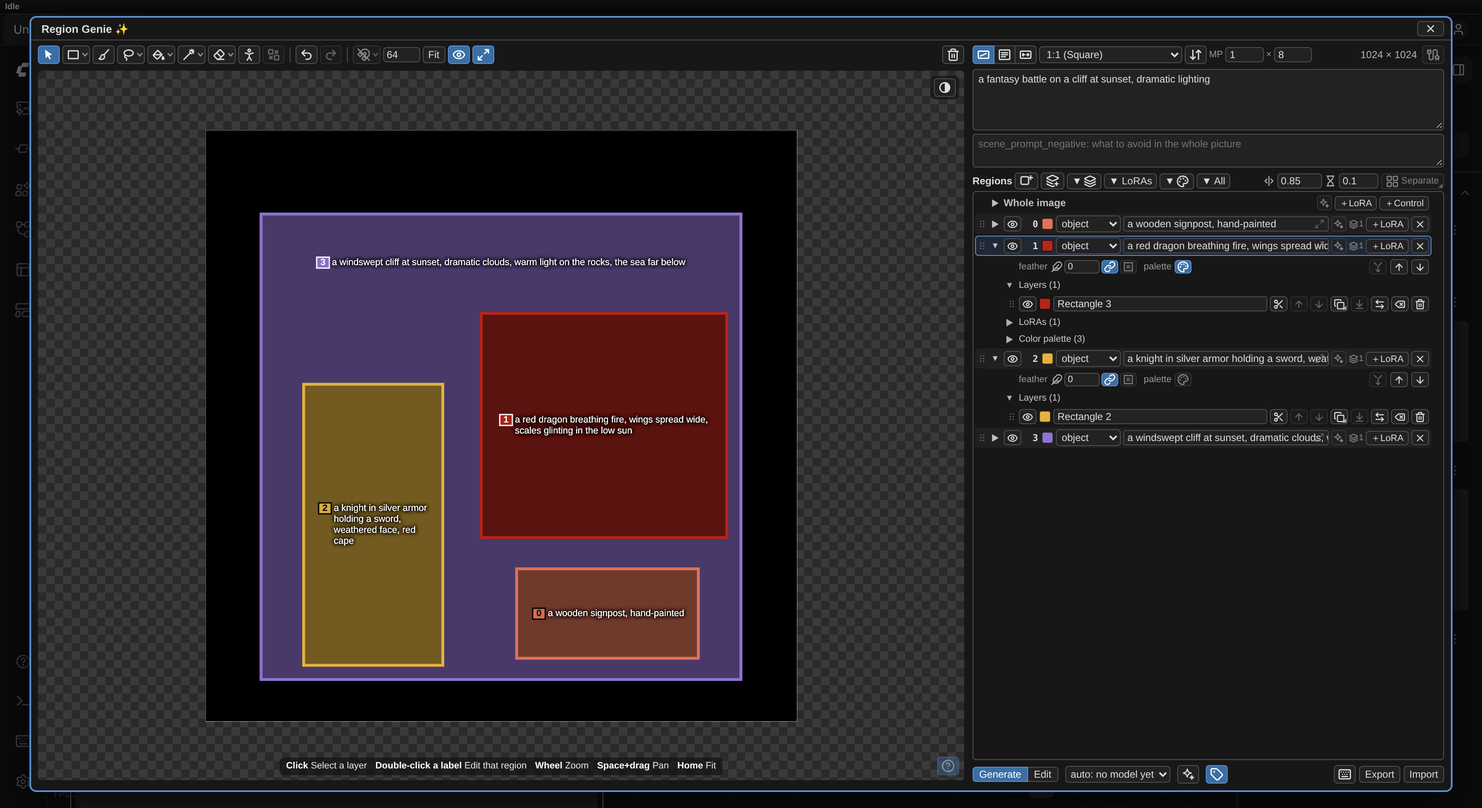
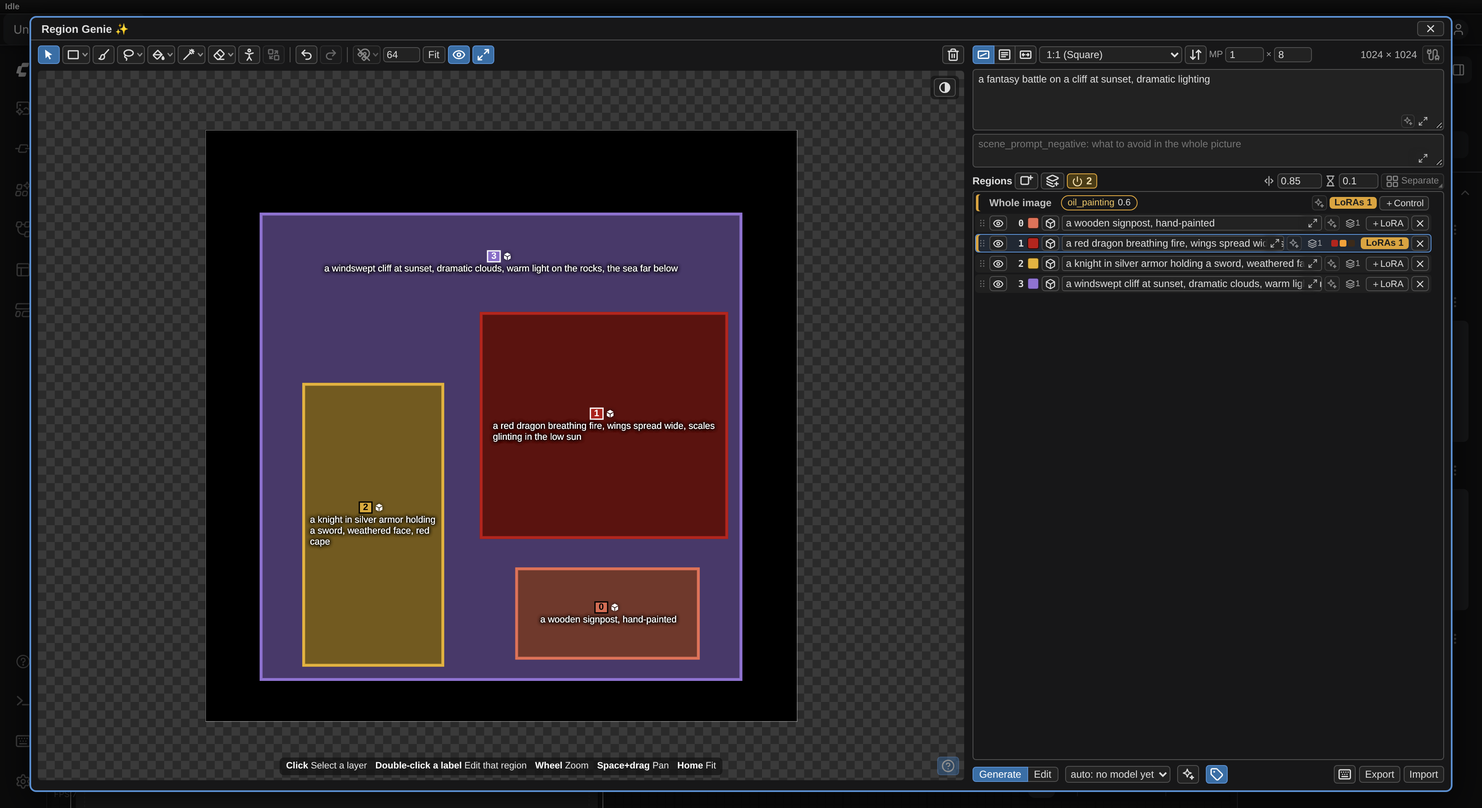
Regions list and region pop-up (rounds 87-88): manual, README, help page, pictures, changelog, handoff, checklist; real-ComfyUI suites updated; version 0.58.0
Claude-Session: https://claude.ai/code/session_01B5U1gpBZHxaHUVoHyaNrX1

diff --git a/js/rg_colorpicker.js b/js/rg_colorpicker.js
@@ -213,7 +213,7 @@ export function openColorPicker(anchor, hex, { onInput, onClose, inline = null }
         fields.textContent = ""; hexIn = null; numIns = [];
         copyBtn.title = `Copy (${{ hex: "#4ecb8d", rgb: "rgb(78, 203, 141)", hsl: "hsl(150, 55%, 55%)" }[displayMode]} format)`;
         if (displayMode === "hex") {
-            hexIn = el("input"); hexIn.type = "text"; hexIn.spellcheck = false; hexIn.setAttribute("aria-label", "Hex");
+            hexIn = el("input"); hexIn.type = "text"; hexIn.spellcheck = false; hexIn.setAttribute("aria-label", "Hex"); hexIn.title = "The color as a hex value";
             fieldEvents(hexIn, () => {
                 const n = normalizeHex(hexIn.value);
                 if (n) { setFromRgb(hexToRgb(n)); update(false); }

diff --git a/docs/region-genie.md b/docs/region-genie.md
@@ -57,18 +57,18 @@ New here? The [quick start](../README.md#-quick-start) in the README gets a firs
 
 - **Without regions** the node is a plain text-to-image prompt node, so the same workflow serves pictures with and without regions.
   - `scene_prompt_positive` and `scene_prompt_negative` are the prompts; `positive`, `negative`, `latent` and `model` go to the sampler as always.
-  - The size row sets the image size, and **＋LoRA** on *Whole image* adds LoRAs for the whole picture.
+  - The size row sets the image size, and the **＋LoRA** button on *Whole image* adds LoRAs for the whole picture.
   - `prompt` is then your scene prompt as plain text (Ideogram 4: its caption JSON with no elements). Hiding every region (the eye buttons) does the same without deleting anything.
 - **An empty canvas** shows two cards. They hide while the pointer is on the canvas.
   - **Start here: with regions** has three steps: pick a shape and drag a box (your first region), type its prompt (in the list, or double-click the middle of the region), connect and run.
-  - **Or without regions** says how to use the node for plain text-to-image: the two scene prompts, and LoRAs under *Whole image*.
+  - **Or without regions** says how to use the node for plain text-to-image: the two scene prompts, and LoRAs on *Whole image*.
 - **The line along the canvas's bottom edge** shows the keys and gestures of the tool in use (for the Rectangle: drag, Shift for equal sides, Alt from the centre).
   - It fades while the pointer is on the canvas (so it never covers what you work on), comes back when the pointer leaves, and shows for a few seconds when you switch tools.
   - The small **?** button in the canvas's lower right corner hides or shows the hints with one click (the same switch as in Settings).
   - **Settings > Region Genie > Canvas tools > Hints on the canvas** turns it and the first steps off.
 - **Tooltips:** point at any button, field or switch for what it does. A shortcut is shown as a key next to the text.
 - **In-app help:** select the node and press **Node Info** in ComfyUI's toolbar (or the Info tab of the side panel) for a short guide with a numbered picture of the node. Every node of the pack has one.
-- **Small buttons are easier to hit:** a click just above, below or beside a small button, a row's ▶ or its grip still counts (the area is at least 24 px tall).
+- **Small buttons are easier to hit:** a click just above, below or beside a small button, a row's grip still counts (the area is at least 24 px tall).
 
 ### Shortcuts
 
@@ -206,14 +206,20 @@ The row at the top of the node sets the size of the picture. Three buttons on th
 - **The region list** (under the canvas) is the output.
   - The number left of each swatch is the region's output index: the `index` to use in Mask Picker or BBoxes to Masks, and its position in every output. Regions without visible pixels show "–" and are left out, so the numbers below them shift.
   - Each region has a color, a type (object, character or text, plus the text to render; that field grows while you edit it too, Shift+Enter for a new line) and a prompt.
+    - The type is the icon before the prompt (a box, a person or a letter T): click it and choose from the three.
+    - A text region's row has a small handle between its prompt and its text to render: drag it to give one of them more room; double-click it for the usual width.
   - The list order is the output order and the stacking order: **drag a region by the grip** (the six dots at the start of its row) to another place in the list.
     - A line shows where it will land, and letting go outside the list changes nothing.
     - A click on the grip without dragging makes the region active, like a click in its prompt.
-    - ↑ ↓ on the region's options line (see *Opening a region*) move the region one step at a time.
+    - ↑ ↓ on the Options tab of the region's pop-up (see *A region's pop-up*) move the region one step at a time.
   - Its layers move with it (the top region is in front; holes keep their place). Click a region's swatch to change its color (display only). The prompt field expands while you edit it; Enter finishes.
   - The small **⤢** button in a prompt's (or text's) bottom-right corner opens the region's pop-up editor next to its row; double-click selects a word, as in any text field. Click a region to make it active: new shapes, paint and fills use it.
   - A layer turned into a hole (✂ on its row) cuts a black hole through the layers below it.
-- **A region's row** holds what is used all the time: show / hide, its number, color, type, the prompt (which gets most of the row), the LLM button, the layer count and ＋LoRA.
+- **A region's row** is one line and holds what is used all the time: show / hide, its number, color, type, the prompt (which gets most of the row), the LLM button, and three small buttons for what the region holds.
+  - **The layer count** (the layers icon and a number).
+  - **The palette's colors** as dots, while the palette is on.
+  - **The LoRAs button:** grey *＋LoRA* with no LoRAs, amber *LoRAs 3* with LoRAs on (*2/3* when some are off), an amber outline *LoRAs 0/2* when all are off. A row with a LoRA on has an amber edge.
+  - Each of the three opens the region's pop-up on that tab. Nothing opens under a row.
   - In Edit Mode also keep / change, and with a Control row its Control switch.
 - **Show / hide a region:** the eye button (open: shown, closed: hidden) before a region's number.
   - A hidden region isn't drawn and is left out of every output (masks, prompt, LoRAs, the color map, Edit Mode's mask), as if it had no pixels.
@@ -221,23 +227,45 @@ The row at the top of the node sets the size of the picture. Three buttons on th
   - Its layers keep their own show / hide settings, so showing it again brings it back exactly as it was.
   - Drawing into a hidden region (or adding a selection to it) shows it again.
 - **Delete a region:** the ✕ at the end of its row deletes it with its layers (Ctrl+Z brings it back).
-- **Right-click a region's row** (not in a text field): Edit prompt, Hide region, Move up / down, Delete region.
+- **Right-click a region's row** (not in a text field): Edit prompt, LoRAs, Layers, Color palette and Options (each opens the pop-up on that tab), Hide region, Move up / down, Delete region.
 
-### Opening a region
+### A region's pop-up
 
-- **Opening a region:** each region's ▶ chevron opens it.
-  - First comes its **options line**:
-    - **feather** (the value, the chain that links it and the dashed square for edges on the image border).
-    - **palette** (on / off).
-    - Then on the right: merge its layers (two lines joining into one) and ↑ ↓ move the region.
-  - Under it are its subsections: **Layers**, **LoRAs** and **Color palette** (only the ones it has). Each subsection has its own ▶ and starts closed; closing the region hides all of them.
-  - The *Whole image* row opens with a click anywhere on it (except its sparkle and ＋LoRA buttons) and shows its LoRAs, or a hint when it has none.
-  - The ▼ buttons above the list (▼ + layers icon, ▼ LoRAs, ▼ + palette icon) open or close that subsection in every region at once (LoRAs includes *Whole image*), and "▼ All" opens or closes everything.
-  - Adding a LoRA or turning a palette on opens its subsection; selecting a layer on the canvas opens its region's layers.
+Everything a region holds is in its pop-up, on five tabs. Open it with the **⤢** button of its prompt, one of the row's small buttons, the row's right-click menu, or a double-click on its label on the canvas.
+
+| Tab | What is on it |
+|---|---|
+| **Prompt** | The type, the prompt, the text to render, and the tag list, wildcard list and LLM button |
+| **LoRAs** | The region's LoRAs: on / off, file, strength, remove, trigger words; ＋LoRA under them |
+| **Layers** | The region's layers and pose figures, a new layer, merge all |
+| **Palette** | The color palette: on / off, its colors, and the color picker |
+| **Options** | Feather, the region's place in the order, show / hide, delete (in Edit Mode also keep / change; with a Control row its Control switch) |
+
+<img src="images/lora.png" alt="The LoRAs tab of a region's pop-up" width="500">
+
+*The LoRAs tab.*
+
+<img src="images/popup-layers.png" alt="The Layers tab of a region's pop-up" width="500">
+
+*The Layers tab.*
+
+<img src="images/popup-palette.png" alt="The Palette tab of a region's pop-up, with the color picker" width="500">
+
+*The Palette tab.*
+
+<img src="images/popup-options.png" alt="The Options tab of a region's pop-up" width="500">
+
+*The Options tab.*
+
+- The pop-up keeps its size and its place when you switch tabs. It grows when what it holds needs more room, so it never has a scroll bar. Drag its corner to make it wider or narrower.
+- A number on a tab says how much is there (*LoRAs 2/3*: two of three are on); amber means something there is switched on.
+- **Lists are reordered by their grips:** drag a LoRA or a layer by the six dots at the start of its row.
+- *Whole image* has no layers or palette: its LoRAs are on a **LoRAs** tab in the pop-up of `scene_prompt_positive`. Its row shows the LoRAs that are on as chips (name and strength; a long name is cut short, a *+2* chip stands for those that don't fit), and the same LoRAs button as a region's row.
+- **All LoRAs off:** the amber button with a power icon in the list's header shows how many LoRAs are on in the node. A click switches every one off; the next click switches the same ones back on.
 
 ### Feather
 
-- **Feather** (on the region's options line: open the region with ▶): softens the region's mask edges by that many pixels, in `masks` and for its LoRAs, like Mask Picker's feather (default 0).
+- **Feather** (on the Options tab of the region's pop-up): softens the region's mask edges by that many pixels, in `masks` and for its LoRAs, like Mask Picker's feather (default 0).
   - The chain button links the value: all linked regions share one value; unlink a region to give it its own. The dashed-square button is that region's `feather_canvas_edges`: off (default) keeps edges on the image border solid, on fades them too.
   - Connect `model` (and `clip`) and use the `model` output for the sampler: see [LoRAs per region](regional-loras.md).
 
@@ -245,11 +273,13 @@ The row at the top of the node sets the size of the picture. Three buttons on th
 
 - **Colors** are picked with a built-in color picker like the one in Create Bounding Boxes (saturation/brightness square, hue bar, Hex / RGB / HSL fields); it works the same in legacy nodes and Nodes 2.0.
   - Changes show live; click outside, press Esc or Enter to close it. A whole pick is one undo step.
+  - On the Palette tab of a region's pop-up the picker is a part of the tab, under the colors: click a color, then change it there.
   - The copy button copies the color in the chosen format (`#4ecb8d`, `rgb(78, 203, 141)` or `hsl(150, 55%, 55%)`).
   - The paste button (or Ctrl+V while the picker has focus) reads a color in any of those formats, CSS color names, or three plain numbers.
   - If the browser blocks reading the clipboard, the picker asks you to press Ctrl+V instead.
-- **Color palette** (the palette icon on the region's options line; off by default): turns on a row of up to 5 colors under the region, like MOSS-Image's `palette` and Ideogram's `color_palette`.
-  - "+" adds a white swatch in its place ("+" moves right, or hides at 5 colors) and opens the color picker on it; closing the picker without changing it keeps the white swatch. Click a color to change it, right-click to remove it.
+- **Color palette** (the Palette tab of the region's pop-up; off by default): up to 5 colors for the region, like MOSS-Image's `palette` and Ideogram's `color_palette`.
+  - The switch at the top turns it on or off, and the word next to it says which it is (*On* in amber, or *Off*).
+  - "+" adds a white color and selects it. Click a color to select it and change it in the picker below; the bin at the right end of the row removes the selected one, and so does a right-click on a color.
   - The region is then shown in its **first palette color** everywhere: on the canvas, in the list and in `color_map`.
   - When that color is the same as (or very close to) black or another region's color, it is lightened or darkened a little so every region stays distinguishable.
   - The palette goes into `elements` (`color_palette`), `bboxes` (`palette`), the MOSS JSON `prompt` (`palette`, exactly as MOSS-Image Layout Prompt writes it) and the Ideogram JSON `prompt`, and Import reads it back.
@@ -257,18 +287,18 @@ The row at the top of the node sets the size of the picture. Three buttons on th
 
 ### LoRAs
 
-- **LoRAs** (MOSS-Image, Krea 2, Ideogram 4, Flux, Anima, SDXL / SD1.5): "＋LoRA" on a region adds a LoRA that acts only inside that region; "＋LoRA" on *Whole image* adds one for the whole picture.
+- **LoRAs** (MOSS-Image, Krea 2, Ideogram 4, Flux, Anima, SDXL / SD1.5): the LoRAs button of a region's row opens the LoRAs tab of its pop-up, where ＋LoRA adds a LoRA that acts only inside that region; the one on *Whole image* adds LoRAs for the whole picture.
   - A whole-image LoRA is merged into the model exactly like a Load LoRA (model only) node placed before the `model` input, so it costs no time while sampling and works with any model.
-  - Each LoRA row has on/off, the LoRA (ComfyUI's list menu, so Easy-Use / rgthree folder nesting works), strength and ✕.
+  - Each LoRA row has a grip (drag to reorder), on / off, the LoRA (ComfyUI's list menu, so Easy-Use / rgthree folder nesting works), strength and ✕.
   - Its **trigger words** are shown as chips. Click a chip to add it to the region's prompt (whole-image LoRAs: to `scene_prompt_positive`).
   - The words are read from the files model managers save next to the LoRA (`.cm-info.json` "TrainedWords", `.civitai.info`, LoRA Manager `.metadata.json`, A1111 `.json`, or the file's own metadata). The chip's tooltip names the file.
   - A ✓ chip is already in the prompt.
 
 ## Layers
 
-- **Layers** are the things you draw.
+- **Layers** are the things you draw. A region's layers are on the **Layers** tab of its pop-up (the layer count on its row opens it).
   - Each layer row has:
-    - The **grip**: a click selects the layer. Drag it above or below another layer, also another region's, or onto a region's row to put it on top of that region's layers.
+    - The **grip**: a click selects the layer. Drag it above or below another layer of the region, or onto another region's row in the list (where the pop-up doesn't cover it) to put it on top of that region's layers.
     - The eye (show / hide).
     - **✂ hole**. On: the layer cuts its area out of every layer below it, so no region is there; black in `color_map`.
       - It stays listed under its region, with a striped swatch, and is drawn striped on the canvas.
@@ -280,10 +310,10 @@ The row at the top of the node sets the size of the picture. Three buttons on th
     - Move to another region (two arrows, left and right).
     - Erase its contents (a backspace key).
     - Delete (a bin).
-  - The merge button on a region's options line merges all of its visible layers.
+  - Under the rows: a new empty layer, and merge all of the region's visible layers.
   - **Ctrl+C / Ctrl+X / Ctrl+V** copy, cut and paste the selected layer (click the canvas first so it has the keyboard): a pasted layer lands on top of the active region's layers, in the same place (with no active region, back in its own region).
   - It also pastes into another Region Genie node. With no layer selected, Ctrl+C / Ctrl+V do ComfyUI's usual node copy and paste.
-  - Selecting a layer on the canvas opens its region.
+  - Selecting a layer on the canvas marks its row on the Layers tab, when that pop-up is open.
   - Only visible pixels inside the image reach `masks`, `bboxes` and `color_map`.
 
 ## Tools
@@ -443,9 +473,10 @@ The tools are the icons in the bar above the canvas. Point at one for its name a
   - The mouse wheel zooms, middle-drag or Space+drag pans, Fit (Home) resets the view, and Alt+wheel or `[` `]` changes brush size.
   - This is the same in Nodes 2.0: the wheel zooms the canvas, not the graph, while the pointer is over it.
 - **Labels** (the eye button, on by default): each region's output index and prompt are written **inside the region**, as much of the prompt as fits.
-  - A small filled **person** before the prompt marks a *character* region, and in Edit Mode a filled **lock** marks a region kept as it is; both are in the text's own color.
+  - The region's number and a mark for its type (a person, a box or a letter T) are on a line of their own above the prompt, centred over it; in Edit Mode a **lock** before the mark is a region kept as it is. A region too low for that line has them before the text.
   - In Edit Mode the label of a kept region lies on a dark plate (the region is only an outline over the picture it keeps, so the text would otherwise sit on the picture itself).
   - The text goes into the largest upright rectangle that lies inside the part of the region you can see (so it never runs over a neighbour or a region drawn on top), with a margin, centred; zooming in gives it more room.
+    - The margin is a setting (*room between a label and its region's edge*, 3% of the region's shorter side at first), and so is how the lines are lined up (*label text*: left-aligned at first, or centered).
   - It is white with a dark shadow, or black with a white glow where the region is light enough at its present opacity. There is no box behind it.
   - Its size is a setting (Settings > Region Genie > Text, *On the canvas: region labels*, 11 px at first): its size with the whole image in view.
     - Zooming in enlarges it with the image, up to *region labels, largest when zoomed in* (16 px at first; a value under the text size counts as the text size). Zooming out never makes it smaller.
@@ -455,7 +486,7 @@ The tools are the icons in the bar above the canvas. Point at one for its name a
   - Double-click the text to open the **region editor**, all live:
     - Object / Character / Text buttons (the current type is highlighted).
     - A multi-line Prompt, and a multi-line Text for text regions.
-    - The region's feather, palette and LoRAs (with trigger-word chips).
+    - The region's LoRAs, layers, palette and options on their own tabs (see *A region's pop-up*).
   - Enter or a click outside closes it, Shift+Enter adds a line, Esc closes it and undoes the text you were editing. Each change is one undo step.
 
 ## Working from an image
@@ -498,13 +529,11 @@ Every text field of the node opens in a **pop-up editor**: a large text box that
 | | The bar itself | Drag to move the pop-up; double-click to put it back next to its field |
 | Region only | The color square | The region's color |
 | | Object / Character / Text | The region's type (Text adds a box for the text to render) |
-| | Color palette (left of the bottom row) | On / off, the colors, **+** |
-| | Feather | The value, the chain that links it to other regions, and edges on the image border |
-| | Kept / changed | Edit Mode only |
+| | Tabs | Prompt, LoRAs, Layers, Palette, Options (see *A region's pop-up*) |
 | Bottom row | Tag autocomplete | On / off |
 | | Wildcards | The wildcard list (ComfyUI Impact Pack) |
 | | LLM Prompt Enhancer | On / off for this field (not on `scene_prompt_negative`) |
-| | ＋LoRA | A LoRA for this region; for the whole image on `scene_prompt_positive`. Each LoRA row: on / off, file, strength, remove, trigger-word chips |
+| LoRAs tab | ＋LoRA | A LoRA for this region; for the whole image on `scene_prompt_positive`. Each LoRA row: grip, on / off, file, strength, remove, trigger-word chips |
 | Corner | ◢ grip | Drag to resize; double-click for the default size |
 
 The details:
@@ -528,13 +557,11 @@ The details:
   - They act on the text box you're typing in, one step per word or per pause in typing, and a text set by something else (the LLM, a wildcard, a LoRA's trigger words, "use the filled text") is a step too.
   - The steps of each field are kept while the workflow is open: close the pop-up, open it again later, and Undo still goes back, all the way to the text the field had when you first opened it.
   - Outside a pop-up, the same keys undo the editor's last step as before (a whole prompt edit is one step there).
-- **The bottom row of a pop-up.**
-  - In a region's pop-up, the color palette is on the left: its on / off button, the colors and **+**.
-  - Everything else is on the right of the same row: kept / changed (Edit Mode), feather, the tag autocomplete switch, the wildcard list (when ComfyUI Impact Pack is installed), the LLM Prompt Enhancer button and ＋LoRA.
-  - The scene prompts' pop-ups have the same right-hand group (the LLM button and ＋LoRA on `scene_prompt_positive` only).
+- **The bottom row of the Prompt tab:** the tag autocomplete switch, the wildcard list (when ComfyUI Impact Pack is installed) and the LLM Prompt Enhancer button (not on `scene_prompt_negative`).
+- **Undo and Redo on the other tabs:** while no text has the cursor, the Undo / Redo keys take back the editor's last step (a LoRA moved, a layer deleted).
 - **Esc closes what is on top first:** with a list or menu open over a pop-up, Esc closes that; the next Esc closes the pop-up.
 - **The pop-up button of a text box (⤢)** sits in the box's bottom-right corner, left of the scroll bar when the box has one, and in the middle of a region's one-line prompt box.
-  - Text stops before it, so nothing you type is hidden under the button or the scroll bar.
+  - It is a solid tile in the box's own color, so no text shows under it, and it turns blue under the pointer.
 - **`scene_prompt_positive` shows its LLM Prompt Enhancer:** the sparkles button is also in the box's corner, left of ⤢.
   - It is dimmed when off, lit when on. A click switches it, exactly like the button in the *Whole image* row.
   - The box has a blue outline while the enhancer is on.

diff --git a/docs/HANDOFF.md b/docs/HANDOFF.md
@@ -214,12 +214,43 @@ The owner asked for a UI / UX review (new users, regular users, look and feel) a
 
 ### Region rows (round 34, UX batch 2)
 
+**Replaced in rounds 87-88 (see the next section): the options line and the subsections under a row are gone.** What follows is the history.
+
 The owner chose layout B from three mock-ups (a ⋯ menu; inside the opened region; a second line on the active region), with ✕ only among the moved controls. The owner first asked how a region becomes active, then chose B over C, so nothing in the row depends on which region is active.
 
 - A region's row (`renderRegions`, js/editor/llm.js): ▶, show / hide, number, color, type, prompt (and text), LLM, keep (Edit Mode), Control switch (with a Control row), layer count, ＋LoRA. The prompt went from 182 to about 400 px at the default node width.
 - The **options line** (`.rg-row.opts`) is the first thing in an opened region: the words "feather" and "palette" with `featherBox(r)` and `paletteToggle(r)`, then ⇊ merge, ↑ ↓ move, ✕ delete on the right. Every region can be opened now (`chevron(r.id, true, …)`), also one without layers, and "▼ All" opens every region (`kindTargets("all")` adds each region's row).
 - Nothing about the data changed, and the pop-up region editor still has feather, palette and LoRAs.
 - `tests/ui_region_rows.cjs` checks the row, the line and that its controls work. The stub node's image is 256 px wide: test coordinates must stay inside it.
+
+### The Regions list without sub-rows; a region's pop-up with tabs (rounds 87-88)
+
+**What the owner wanted.** LoRAs that are on must be impossible to miss, the whole image's above all. Then, more generally: nothing opening under a row; pop-ups that match the pack's other ones. Every step was shown as mock-ups drawn onto the real node first; the owner's choices are in `docs/CHANGELOG.md`.
+
+**The rows (`llm.js` `renderRegions`, `list.js`).**
+- A region row is one line: grip, eye, number, swatch, type icon (`.rg-tybtn`, `openMenu` with the three types), prompt (and for a text region `.rg-tsplit` + the text field), LLM, keep / control toggles when they apply, `button.rg-cnt` (layers and pose figures), `button.rg-paldots` (the palette's colors while it is on), the LoRAs button, delete.
+- `loraButton(list, what, open)`: classes `none` / `some` / `alloff`; text "＋LoRA", "LoRAs 3", "LoRAs 2/3", "LoRAs 0/2". `loraChips` (Whole image): chips of the LoRAs that are on, `fit()` hides from the end and shows "+N" (a ResizeObserver keeps it right); a chip's name is cut at 130 px. `ownLoras` leaves out the Edit and Control LoRAs (they have their own rows). Rows with a LoRA on have the class `has-lora` (the amber edge).
+- `E.loraAllBtn` in the header (`canvasUi.js`): `toggleAllLoras` switches all off and marks them `wasOn`; with none on it switches the `wasOn` ones back. `wasOn` is saved in the node's state (Python ignores it); toggling a LoRA by hand clears it on that LoRA.
+- Gone: the ▶ chevrons on rows, the options line, `subHeader` bodies in the list, the Whole image row's click-to-open, the ▼ buttons (`updateExpandButtons` hides them all). `E.expanded` / `E.subOpen` / `E.openSub` still exist and do nothing visible; `subHeader`, `toggleKind`, `chevron` and `paletteRow` are unused now and can be removed in a cleanup.
+- The text field's width of a text region: `node.properties.rg_text_w[region id]` (px), set by `.rg-tsplit`; not part of Undo.
+
+**The pop-up (`popups.js`).**
+- `popTabs(defs, first, onSwitch)`: a tab bar and panes in one grid cell (`.rg-pop-pane.off` is `visibility:hidden`), so the pop-up is as tall as its tallest pane and keeps its size and place on a switch. `popFit(box)` grows the pop-up when its content is taller (never a scroll bar). `POP_MIN_W` (region 430 px).
+- Region pop-up (`editPrompt(rid, rect, focus, at, tab)`): prompt | loras | layers | palette | options. Scene pop-up (`editScene(which, at, tab)`): prompt | loras for `positive`, one pane for the others. `ed.tabs.cur` is passed on when stepping with ◀ / ▶.
+- LoRAs tab: `loraRows(list, { pop: true })` adds `loraGrip` (drag to reorder inside `.rg-pop-lorarows`) and makes the on / off box a switch (`input.rg-switch`).
+- Layers tab: `E.layerRows(rid)` as the list had them, inside `.rg-pop-layers`; `grip("layer")` works on that container, and still drops onto a region's row of the list where the pop-up doesn't cover it. `markLayerRows` marks the rows in the pop-up.
+- Palette tab: `paletteTab(box, r, st)` in `list.js`; `st` (`ed.pal`) keeps the selected color, the inline picker and an undo snapshot between refreshes, so a redraw doesn't end a drag. A change is committed as one undo step half a second after the color rests (`st.flush`, also when the pop-up closes). `openColorPicker(null, hex, { inline: host })` builds the picker into the tab (no window, no outside-click close; `set(hex)`).
+- Options tab: `optLine(label, ...controls)`; feather, Edit Mode's keep, the Control switch, order, show / hide, delete.
+- `popUndoKeys`: Undo / Redo of the editor while no text field has the cursor (a pop-up used to swallow them).
+- Test hooks: `node.__rgEditTab(rid, tab)`, `node.__rgCloseEditor()`.
+
+**The canvas labels (`render.js` `drawLabels`).** Inside a region the number badge and the marks are a line above the text, centered (`it.top = { headW, headH }`); a region too low for that keeps them before the text. Marks: `LABEL_MARKS.person` / `object` / `text` (and `lock` in Edit Mode). Settings: `cmLabelPad` (3%), `cmLabelAlign` (left / center).
+
+**Other.** `.rg-expand` is a solid tile in the field's color (a one-line field's text runs to the field's edge: it can't be stopped earlier, so the tile covers it). The large editor's scene boxes are wrapped in `.rg-big-fld` and get `addExpandButton(..., [], 14)` (14 px for the browser's resize grip) and the LLM corner button; `editScene` places its pop-up left of the big scene box.
+
+**Tested (round 88's finishing).** `run_py.sh`, `run_ui.sh`; on real ComfyUI in both node modes: `real_smoke` (its node count was still 6: it is 8 since the tiled nodes), `real_layering` (new lines for the tabs, the inline picker and the type menu; the legacy run takes about ten minutes), `real_text_boxes` four ways, `real_sockets`, `real_number_wheel` (a pop-up's number field steps with the wheel over its pop-up), `real_attention`, `real_fields_popups`, `real_llm_settings`, `real_pose_input`, `real_run_wildcards`, `real_tooltips`, `real_i18n`; and `real_mode_switch`, `real_settings`, `real_tiled_upscale`, `real_save_image`, `make_examples.cjs check`. Pictures retaken with `shot_readme.cjs` (new: `popup-layers.png`, `popup-palette.png`, `popup-options.png`; `lora.png` is now the LoRAs tab).
+
+**Not done / ideas.** Whole image has no Options tab; its Control and Edit rows are still rows of the list. The type menu shows a tick, not the type's icon. A layer selected on the canvas no longer shows itself anywhere unless that region's Layers tab is open (offered: open it, or a mark on the row's layer count).
 
 ### Canvas labels, region colors, drag to reorder, theme (round 35, UX batch 3)
 

diff --git a/docs/HARDWARE-CHECKLIST.md b/docs/HARDWARE-CHECKLIST.md
@@ -141,7 +141,7 @@ Check once in legacy mode and once in Nodes 2.0.
 
 ## 12. Region rows (round 34)
 
-- On the 4K display, both node modes: a region's prompt gets most of its row; ▶ opens the region to its options line (feather, palette, merge, move, delete) above its layers; feather and the palette set there act on the run as before.
+- On the 4K display, both node modes (round 88): a region's prompt gets most of its row; the type icon, the layer count, the palette dots and the LoRAs button are readable and easy to hit; each opens the region's pop-up on its tab, and the pop-up keeps its size and place over all five tabs
 
 ## 13. Labels, colors, dragging (round 35)
 
@@ -177,7 +177,7 @@ Check once in legacy mode and once in Nodes 2.0.
 
 ## 17. Click areas, your own shortcuts (round 39)
 
-- **Click areas, on the 4K display, both node modes:** click a row's small buttons (eye, ↑ ↓, ✕, the ▶ and the grip) slightly off: just above or below still counts; a click between two buttons goes to the nearer one, never to both. A tool button's small arrow still opens its list.
+- **Click areas, on the 4K display, both node modes:** click a row's small buttons (eye, the type icon, ✕ and the grip) slightly off: just above or below still counts; a click between two buttons goes to the nearer one, never to both. A tool button's small arrow still opens its list.
 - **Changing a key on a real keyboard:** press ? over a node, click a key, press a new one: a letter, a function key, a combination with Ctrl / Alt / Shift, and (on macOS) one with ⌘. The new key works on the canvas at once and the old one doesn't; the tooltip and the hint line show it. Try a key ComfyUI itself uses (R, Ctrl+S): it acts in the editor only while the pointer is over the node.
 - A non-US keyboard layout: the keys with symbols ([ ] ?) can be reached, or can be given keys that can.
 - **Settings > Region Genie > Shortcuts > Edit…:** the list opens over the Settings dialog, takes a new key there, and closing it leaves the dialog open. After reloading ComfyUI the keys are still yours.
@@ -296,4 +296,16 @@ Nothing here has run on a real model yet.
 - [ ] ControlNet with SDXL in a tiled run; the warning for a transformer model's ControlNet
 - [ ] The "More settings" line on the 4K display, both node modes, and in Firefox: folds and shows the six settings, the node's height follows, "N changed" is readable
 - [ ] Regions in a tiled upscale (round 76's step 2): regional LoRAs stay in their regions in the upscale; at denoise 0.4+ tiles don't draw other regions' prompts; Anima, SDXL, Flux, Krea 2
+
+## Regions list without sub-rows; a region's pop-up with tabs (rounds 87-88)
+
+- [ ] A real run after "all LoRAs off" in the header: no LoRA is applied; the next click brings the same ones back and the run uses them
+- [ ] The LoRAs tab with a real LoRA folder: the file list opens above the pop-up with its folders; trigger-word chips show and add their word
+- [ ] A long LoRA list on *Whole image*: the chips are cut to what fits and "+N" counts the rest, at your usual node width
+- [ ] The Palette tab: the picker in the tab follows the pointer smoothly; one drag is one Undo step
+- [ ] Dragging a layer from the Layers tab onto another region's row in the list
+- [ ] The handle between a text region's prompt and its text to render, in both node modes
+- [ ] Canvas labels: the number and the type's mark above the prompt read well at 11 px on the 4K display; the box and the T are clear
+- [ ] The large editor: the scene boxes' pop-up buttons sit left of the browser's resize grip and both can be used
+- [ ] Firefox: the switch (a styled checkbox), the tabs, and dragging rows by their grips
 

diff --git a/docs/CHANGELOG.md b/docs/CHANGELOG.md
@@ -2,6 +2,14 @@
 
 Each round is one request from the owner: what was asked, what was decided (and by whom), what was built and how it was tested. Later rounds sometimes reverse earlier ones; `docs/HANDOFF.md` section 4 has the current design. Test file names are the current ones (renamed by subject in round 24; e.g. `real_comfy12.cjs` is now `real_fields_popups.cjs`).
 
+## Rounds 87-88 (Nov 25-26): LoRAs at a glance; the Regions list without sub-rows; a region's pop-up with tabs
+- Asked: make it very clear when LoRAs are active, the whole image's above all: it is easy to miss, and a LoRA left on spoils the next prompt. Then, wider: the list is cramped, and rows that open more rows under them are clunky; handle those things in pop-ups that look like the pack's other ones.
+- Shown before building: three ways to mark LoRAs (a count, names, a summary line), then names with a "+N" chip and two ways to open the list, then the list without sub-rows with cards or one window per region (with design guidance from Apple's HIG on popovers, SAP Fiori, Red Hat and others). The owner chose, step by step: one adaptive LoRAs button per row; name chips on Whole image too; a count on the button and a third state for "all off"; one pop-up per region with tabs; the type as an icon with a menu; an "all off" switch that belongs to no row.
+- Built (stage 1): `loraButton`, `loraChips` (fixed greatest width, "+N"), the header's switch (`toggleAllLoras`; what it switched off is kept as `wasOn` on the LoRA), tabs in the pop-ups (`popTabs`: the panes lie on top of each other, so the pop-up keeps its size), a LoRAs tab with grips to reorder, `popFit` (no scroll bar), Undo / Redo keys on a tab without a text cursor.
+- Built (stage 2): Layers, Palette and Options tabs; the region rows are one line (no ▶, no options line, no subsections; the header's ▼ buttons are gone); small buttons for the layer count and the palette's colors; the type icon with a menu; entries for each tab in the row's right-click menu.
+- Asked while it was built, and done: the color picker inside the Palette tab, with a switch that says On / Off (`paletteTab`, `openColorPicker(..., { inline })`); the remove button at the right end of the swatches' row; expand buttons as solid tiles so no text shows under them; the room between a canvas label and its region's edge as a Setting (3%, was a fixed 8%); the label's number and type mark on a line above the prompt, centered, with the text left-aligned or centered (a Setting); a mark for every type (a box and a T were drawn for object and text); a handle between a text region's prompt and its text to render (`properties.rg_text_w`); the large editor: its scene boxes got the pop-up and LLM buttons and the scene pop-up opens beside them.
+- Tested: `run_ui.sh` (five suites rewritten for the new layout, new checks for every tab), `run_py.sh`, and the real-ComfyUI suites in both node modes (see the handoff for which). Not on a GPU, not in Firefox, not on a 4K screen. Version 0.58.0.
+
 ## Round 86 (Nov 25): a GitHub Release with every version
 - Asked: like the automatic publish to the Comfy Registry, a Release on GitHub for each new version.
 - Built: `.github/workflows/release.yml`: tag `v<version>` and a release with GitHub's generated notes, after a merge to `main` that touches pyproject.toml, when that version has no release yet; also by hand. Merging this round makes the release of 0.57.0, the first one.

diff --git a/tests/README.md b/tests/README.md
@@ -21,6 +21,7 @@ None of these need a GPU. Screenshots go to `tests/out/` (not committed).
 | **The wheel on number fields** (`real_number_wheel.cjs [vue]`): a clicked number field steps with the wheel anywhere over its node (list, bottom bar, title), not over the drawing canvas (it zooms), another node or the empty graph; several fields, the Regional LoRAs node. | Needs the real ComfyUI. |
 | **Tag weight** (`real_attention.cjs [vue]`): Ctrl+Up / Ctrl+Down (ComfyUI's own feature) in every text field of the pack: up, back to plain, down; several selected words; Undo; saved in the node. | Needs the real ComfyUI. |
 | **Tiled Upscale's "More settings" line** (`real_tiled_upscale.cjs [vue]`): a new node has the six set-once settings folded; a click shows and folds them and the node's height follows; "N changed" on the line; the fold and every value survive saving and loading; a folded setting with a cable stays shown. | Needs the real ComfyUI. |
+| **The Regions list and a region's pop-up** (rounds 87-88; in `ui_editor.cjs`, `ui_region_rows.cjs`, `ui_popup_text.cjs`, `ui_labels_colors_drag.cjs`, `ui_pose.cjs`): the LoRAs button's three states, the chips and their greatest width, all LoRAs off and back; the five tabs keep the pop-up's size and place; LoRA and layer rows move by their grips; the Palette tab's switch and inline picker; the Options tab; the type icon's menu; the marks on canvas labels; the handle between a text region's fields. | Stub page: no real LoRA files, no ComfyUI menus. |
 | **Switching node modes** (`real_mode_switch.cjs`): legacy → Nodes 2.0 → legacy, twice: the pop-up button of every text box of the node and of the Regional LoRAs node, and the LLM button of `scene_prompt_positive`, are there after every switch and still open the pop-up. | Needs the real ComfyUI. |
 | **The node's own text boxes** (`real_text_boxes.cjs [vue] [classic]`): the pop-up button of a text box is off the scroll bar and the text stops before it, with overlay scroll bars and (`classic`) with classic ones; a one-line region prompt has the button in the middle; `scene_prompt_positive` shows its LLM Prompt Enhancer (corner button, outline); Undo / Redo cover the scene prompts and every visit to a text box, the Undo keys in a box go through its own text, and none of it survives loading a workflow or is in the saved one; the bottom bar is centred between the line above it and the node's edge. **Run it (all four ways) when a text box of the node, its corner buttons, the editor's Undo or the bottom bar changes** | `node tests/real_text_boxes.cjs [vue] [classic]` | a running ComfyUI with this pack |
 | **Sockets** (`real_sockets.cjs [vue]`): a new node's short socket lists, the sockets checklist (tick / untick, connected ones stay), the node resizing at its top, the prompt's output numbers and a run that proves them, `size_from` with an image and a latent, the size row = the canvas size, `control_image` with a Control row, no row wrapping at 700 px in Generate and Edit Mode, the wildcard seed group, save and load, a workflow from before round 40. **Run it whenever sockets, the size inputs, loading / saving of the node or the Python node's inputs / outputs change** | `node tests/real_sockets.cjs [vue]` | a running ComfyUI with this pack, `rg_test.png` in its input folder (`setup_real_comfy.sh` puts it there) |

diff --git a/README.md b/README.md
@@ -1,6 +1,6 @@
 # Region Genie ✨
 
-![Version](https://img.shields.io/badge/version-0.57.0-8f73d6)
+![Version](https://img.shields.io/badge/version-0.58.0-8f73d6)
 ![License](https://img.shields.io/badge/license-GPL--3.0-blue)
 ![ComfyUI](https://img.shields.io/badge/ComfyUI-custom%20nodes-2f9e8f)
 
@@ -158,7 +158,7 @@ The easiest way to write prompts. Every text field opens in a large editor that 
 
 <img src="docs/images/popup-scene.png" alt="The pop-up editor of scene_prompt_positive, with a whole-image LoRA" width="560">
 
-<img src="docs/images/popup-region.png" alt="The pop-up editor of a region: type buttons, prompt, color palette, feather and a LoRA" width="500">
+<img src="docs/images/popup-region.png" alt="The pop-up editor of a region: its tabs, the type buttons and the prompt" width="500">
 
 | Where | Control | What it does |
 |---|---|---|
@@ -167,13 +167,12 @@ The easiest way to write prompts. Every text field opens in a large editor that 
 | Text box | Ctrl+Up / Ctrl+Down | Raise or lower the weight of the word or tag at the cursor, or of the selected words: `(tag:1.05)` |
 | | A− / A+ | Smaller / larger text |
 | | Close | Closes the pop-up (also Esc). Your text always stays |
+| Tabs | Prompt, LoRAs, Layers, Palette, Options | Everything a region holds, one tab each; the pop-up keeps its size when you switch |
 | Region only | Object / Character / Text | What kind of region this is |
-| | Color palette | Colors the region should use: on / off, the colors, **+** to add one |
-| | Feather | How soft the region's edge is |
 | Bottom row | Tag autocomplete | Tag suggestions while you type, on / off |
 | | Wildcards | Insert a wildcard (with ComfyUI Impact Pack) |
 | | LLM Prompt Enhancer | Let a local LLM rewrite this prompt when the workflow runs |
-| | ＋LoRA | Add a LoRA: for this region, or for the whole image on `scene_prompt_positive` |
+| LoRAs tab | ＋LoRA | Add a LoRA: for this region, or for the whole image on `scene_prompt_positive` |
 
 Drag the title bar to move a pop-up, and the corner grip to resize it. It stays open while you draw.
 
@@ -217,9 +216,9 @@ The row at the top of the node replaces a separate size node. Pick the size in o
 
 ### Regional LoRAs
 
-**＋LoRA** on a region adds a LoRA that acts only inside that region. **＋LoRA** on *Whole image* adds one for the whole picture. Trigger words show as chips you can click into the prompt.
+The **LoRAs** button on a region's row adds LoRAs that act only inside that region; the one on *Whole image* adds LoRAs for the whole picture. The buttons turn amber and count the LoRAs that are on, *Whole image* names them, and one switch in the list's header turns every LoRA off and back on. Trigger words show as chips you can click into the prompt.
 
-<img src="docs/images/lora.png" alt="A region opened in the list, with a LoRA of its own" width="460">
+<img src="docs/images/lora.png" alt="The LoRAs tab of a region's pop-up, with a LoRA of its own" width="460">
 
 → [Regional LoRAs](docs/regional-loras.md)
 

diff --git a/js/docs/Region-Genie_Main.md b/js/docs/Region-Genie_Main.md
@@ -26,10 +26,11 @@ node outputs the model, the encoded prompts and the latent, plus masks, boxes an
 4. **Canvas**: the image area sits in a checkered margin. Each region shows its number and as much of its prompt
    as fits inside it; double-click that text to edit the region. The line along the bottom edge shows the keys and
    gestures of the tool in use.
-5. **Regions**: one row per region, with its number (the `index` other nodes use), color, type and prompt. The
-   arrow at the start of a row opens it: feather, palette, merge, move and delete, then its layers and LoRAs.
-   Drag a region or a layer by the six dots at the start of its row to reorder it; a click on them picks the row.
-   *Whole image* holds LoRAs and Control for the whole picture.
+5. **Regions**: one row per region, with its number (the `index` other nodes use), color, type (an icon: click it
+   to change it) and prompt. The small buttons at the end of a row (layers, palette colors, LoRAs) open the region's
+   pop-up on that tab: Prompt, LoRAs, Layers, Palette, Options. The LoRAs button is amber while LoRAs are on.
+   Drag a region by the six dots at the start of its row to reorder it; a click on them picks the row.
+   *Whole image* holds LoRAs and Control for the whole picture; the power button in the header turns all LoRAs off.
 6. **Bottom bar**: Generate / Edit, the model, the LLM Prompt Enhancer, tag autocomplete, the wildcard seed (while a prompt has a wildcard), and
    Export / Import. After a run, a button here shows what the run reported, with a ⚠ when something needs attention.
 

diff --git a/js/docs/Region-Genie_RegionalLoRAs.md b/js/docs/Region-Genie_RegionalLoRAs.md
@@ -1,7 +1,7 @@
 # Regional LoRAs
 
 LoRAs that act only inside a mask, for workflows that build their regions with other nodes. (The Region Genie node
-does the same from its own regions: press ＋LoRA on a region there.)
+does the same from its own regions: press the LoRAs button on a region's row there.)
 
 - Connect `model`, `clip` and `masks` (for example from the Region Genie node), and its `prompt` to `positive_prompt`.
 - Each row is one LoRA: on / off, `index` (the region's number; -1 for the whole image), the LoRA file, its strength
